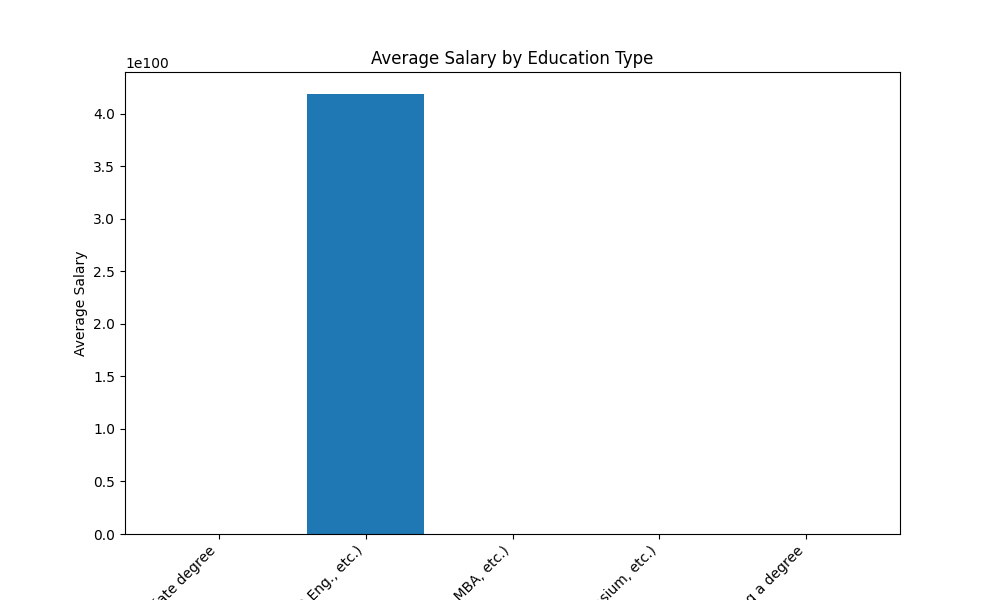
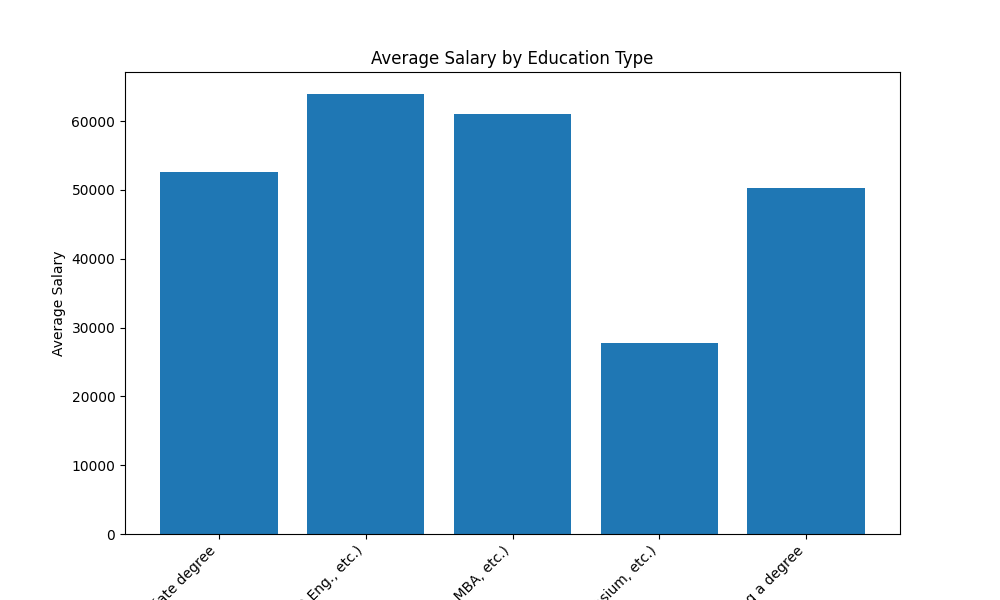
Static visual changes

diff --git a/ui/src/footer.tsx b/ui/src/footer.tsx
@@ -1,8 +1,19 @@
 import React, { useState } from 'react';
 import { Modal } from './Modal';
+import AverageSalary from './static/average_salary.png';
+import AverageSalaryExperience from './static/average_salary_by_years_experience.png';
+import JobSatisfactionByCompanySize from './static/job_satisfaction_by_company_size.png';
+import SalaryByCountry from './static/salary_by_top_countries.png';
+
 
 export const Footer: React.FC = () => {
   const [showModal, setShowModal] = useState(false);
+  const [modalImageSrc, setModalImageSrc] = useState('');
+
+  const openModalWithImage = (src: string) => {
+    setModalImageSrc(src);
+    setShowModal(true);
+  };
 
   return (
     <div className="footer">
@@ -11,17 +22,20 @@ export const Footer: React.FC = () => {
         <button onClick={() => window.open('https://www.kaggle.com/stackoverflow/stack-overflow-2018-developer-survey', '_blank')}>
           View Raw Data
         </button>
-        <button onClick={() => setShowModal(true)}>
-          View Data by Salary
+        <button onClick={() => openModalWithImage(AverageSalary)}>
+          Avg Salary by Education Type
         </button>
-        <button onClick={() => window.open('https://www.kaggle.com/stackoverflow/stack-overflow-2018-developer-survey#state', '_blank')}>
-          View Data by State
+        <button onClick={() => openModalWithImage(AverageSalaryExperience)}>
+          Avg Salary by Years of Experience and Education Type
         </button>
-        <button onClick={() => window.open('https://www.kaggle.com/stackoverflow/stack-overflow-2018-developer-survey#devtype', '_blank')}>
-          View Data by Role Type
+        <button onClick={() => openModalWithImage(JobSatisfactionByCompanySize)}>
+          Satisfaction by Company Size
+        </button>
+        <button onClick={() => openModalWithImage(SalaryByCountry)}>
+          Salary by Top 10 Countries
         </button>
       </div>
-      {showModal && <Modal onClose={() => setShowModal(false)} />}
+      {showModal && <Modal imageSrc={modalImageSrc} onClose={() => setShowModal(false)} />}
     </div>
   );
 };

diff --git a/ui/src/Modal.tsx b/ui/src/Modal.tsx
@@ -1,17 +1,17 @@
 import React from 'react';
-import AverageSalary from './static/average_salary.png';
 
 type ModalProps = {
   onClose: () => void;
+  imageSrc: string;
 };
 
-export const Modal: React.FC<ModalProps> = ({ onClose }) => {
+export const Modal: React.FC<ModalProps> = ({ onClose, imageSrc }) => {
   return (
     <div className="modal-overlay">
       <div className="modal">
         <span className="close" onClick={onClose}>&times;</span>
         <div className="modal-content">
-          <img src={AverageSalary} alt="Average Salary" />
+          <img src={imageSrc} alt="Modal Visualization" />
         </div>
       </div>
     </div>

diff --git a/average_salary_by_years_experience.py b/average_salary_by_years_experience.py
@@ -1,0 +1,51 @@
+import pandas as pd
+import matplotlib.pyplot as plt
+
+df = pd.read_csv("data/cleaned/data-cleaned.csv")
+
+relevant_educations = [
+    "Bachelor’s degree (BA, BS, B.Eng., etc.)",
+    "Associate degree",
+    "Some college/university study without earning a degree",
+    "Master’s degree (MA, MS, M.Eng., MBA, etc.)",
+    "Secondary school (e.g. American high school, German Realschule or Gymnasium, etc.)",
+    "NA",
+]
+df = df[df["FormalEducation"].isin(relevant_educations)]
+
+years_experience_categories = [
+    "0-2 years",
+    "3-5 years",
+    "6-8 years",
+    "9-11 years",
+    "12-14 years",
+    "15-17 years",
+    "18-20 years",
+    "21-23 years",
+    "24-26 years",
+    "27-29 years",
+    "30 or more years",
+]
+
+colors = {
+    relevant_educations[i]: f"C{i}" for i in range(len(relevant_educations))
+}
+
+plt.figure(figsize=(12, 8))
+
+for education in relevant_educations:
+    education_data = df[df["FormalEducation"] == education]
+    
+    avg_salaries = [
+        education_data[education_data["YearsCoding"] == experience]["Salary"].mean()
+        for experience in years_experience_categories
+    ]
+    
+    plt.plot(years_experience_categories, avg_salaries, label=education, color=colors[education])
+
+plt.xticks(rotation=45, ha="right")
+plt.xlabel("Years of Experience")
+plt.ylabel("Average Salary")
+plt.title("Average Salary by Years of Experience and Education Type")
+plt.legend()
+plt.savefig("ui/src/static/average_salary_by_years_experience.png")

diff --git a/job_satisfaction_by_company_size.py b/job_satisfaction_by_company_size.py
@@ -1,0 +1,41 @@
+import pandas as pd
+import matplotlib.pyplot as plt
+import seaborn as sns
+
+df = pd.read_csv("data/cleaned/data-cleaned.csv")
+
+satisfaction_mapping = {
+    "Extremely satisfied": 7,
+    "Moderately satisfied": 6,
+    "Slightly satisfied": 5,
+    "Neither satisfied nor dissatisfied": 4,
+    "Slightly dissatisfied": 3,
+    "Moderately dissatisfied": 2,
+    "Extremely dissatisfied": 1,
+}
+
+df["JobSatisfaction"] = df["JobSatisfaction"].map(satisfaction_mapping)
+
+df = df.dropna(subset=["JobSatisfaction"])
+
+company_size_categories = [
+    "Fewer than 10 employees",
+    "10 to 19 employees",
+    "20 to 99 employees",
+    "100 to 499 employees",
+    "500 to 999 employees",
+    "1,000 to 4,999 employees",
+    "5,000 to 9,999 employees",
+    "10,000 or more employees",
+]
+
+df = df[df["CompanySize"].isin(company_size_categories)]
+
+plt.figure(figsize=(12, 8))
+sns.violinplot(x="CompanySize", y="JobSatisfaction", data=df, cut=0)
+plt.title("Job Satisfaction by Company Size")
+plt.xlabel("Company Size")
+plt.ylabel("Job Satisfaction")
+plt.xticks(rotation=45, ha="right")
+
+plt.savefig("ui/src/static/job_satisfaction_by_company_size.png")

diff --git a/average_salary_by_country.py b/average_salary_by_country.py
@@ -1,0 +1,31 @@
+import pandas as pd
+import matplotlib.pyplot as plt
+
+df = pd.read_csv("data/cleaned/data-cleaned.csv")
+
+relevant_educations = [
+    "Bachelor’s degree (BA, BS, B.Eng., etc.)",
+    "Associate degree",
+    "Some college/university study without earning a degree",
+    "Master’s degree (MA, MS, M.Eng., MBA, etc.)",
+    "Secondary school (e.g. American high school, German Realschule or Gymnasium, etc.)",
+    "NA",]
+
+df = df[df["FormalEducation"].isin(relevant_educations)]
+
+grouped_country = df.groupby("Country").count().reset_index()
+top_countries = grouped_country.sort_values(by="Respondent", ascending=False).head(10)
+
+boxplot_data = []
+for country in top_countries["Country"]:
+    country_data = df[df["Country"] == country]["Salary"]
+    boxplot_data.append(country_data.dropna().values)
+
+fig, ax = plt.subplots(figsize=(10, 6))
+ax.boxplot(boxplot_data, labels=top_countries["Country"])
+
+ax.set_xlabel("Country")
+ax.set_ylabel("Salary")
+ax.set_title("Salary Distribution by Top Countries")
+
+plt.savefig("ui/src/static/salary_by_top_countries.png")

diff --git a/average_salary_visualization.py b/average_salary_visualization.py
@@ -1,10 +1,8 @@
 import pandas as pd
 import matplotlib.pyplot as plt
 
-# Load the data into a pandas DataFrame
 df = pd.read_csv("data/cleaned/data-cleaned.csv")
 
-# Filter the data to only include the relevant education values
 relevant_educations = [
     "Bachelor’s degree (BA, BS, B.Eng., etc.)",
     "Associate degree",
@@ -15,10 +13,8 @@ relevant_educations = [
 ]
 df = df[df["FormalEducation"].isin(relevant_educations)]
 
-# Group the data by education type and calculate the average salary for each group
 grouped = df.groupby("FormalEducation")["Salary"].mean().reset_index()
 
-# Create a bar plot of the average salary by education type
 plt.figure(figsize=(10, 6))
 plt.bar(grouped["FormalEducation"], grouped["Salary"])
 plt.xticks(rotation=45, ha="right")
@@ -26,5 +22,4 @@ plt.xlabel("Education Type")
 plt.ylabel("Average Salary")
 plt.title("Average Salary by Education Type")
 
-# Save the plot as an image
-plt.savefig("static/average_salary.png")
+plt.savefig("ui/src/static/average_salary.png")
